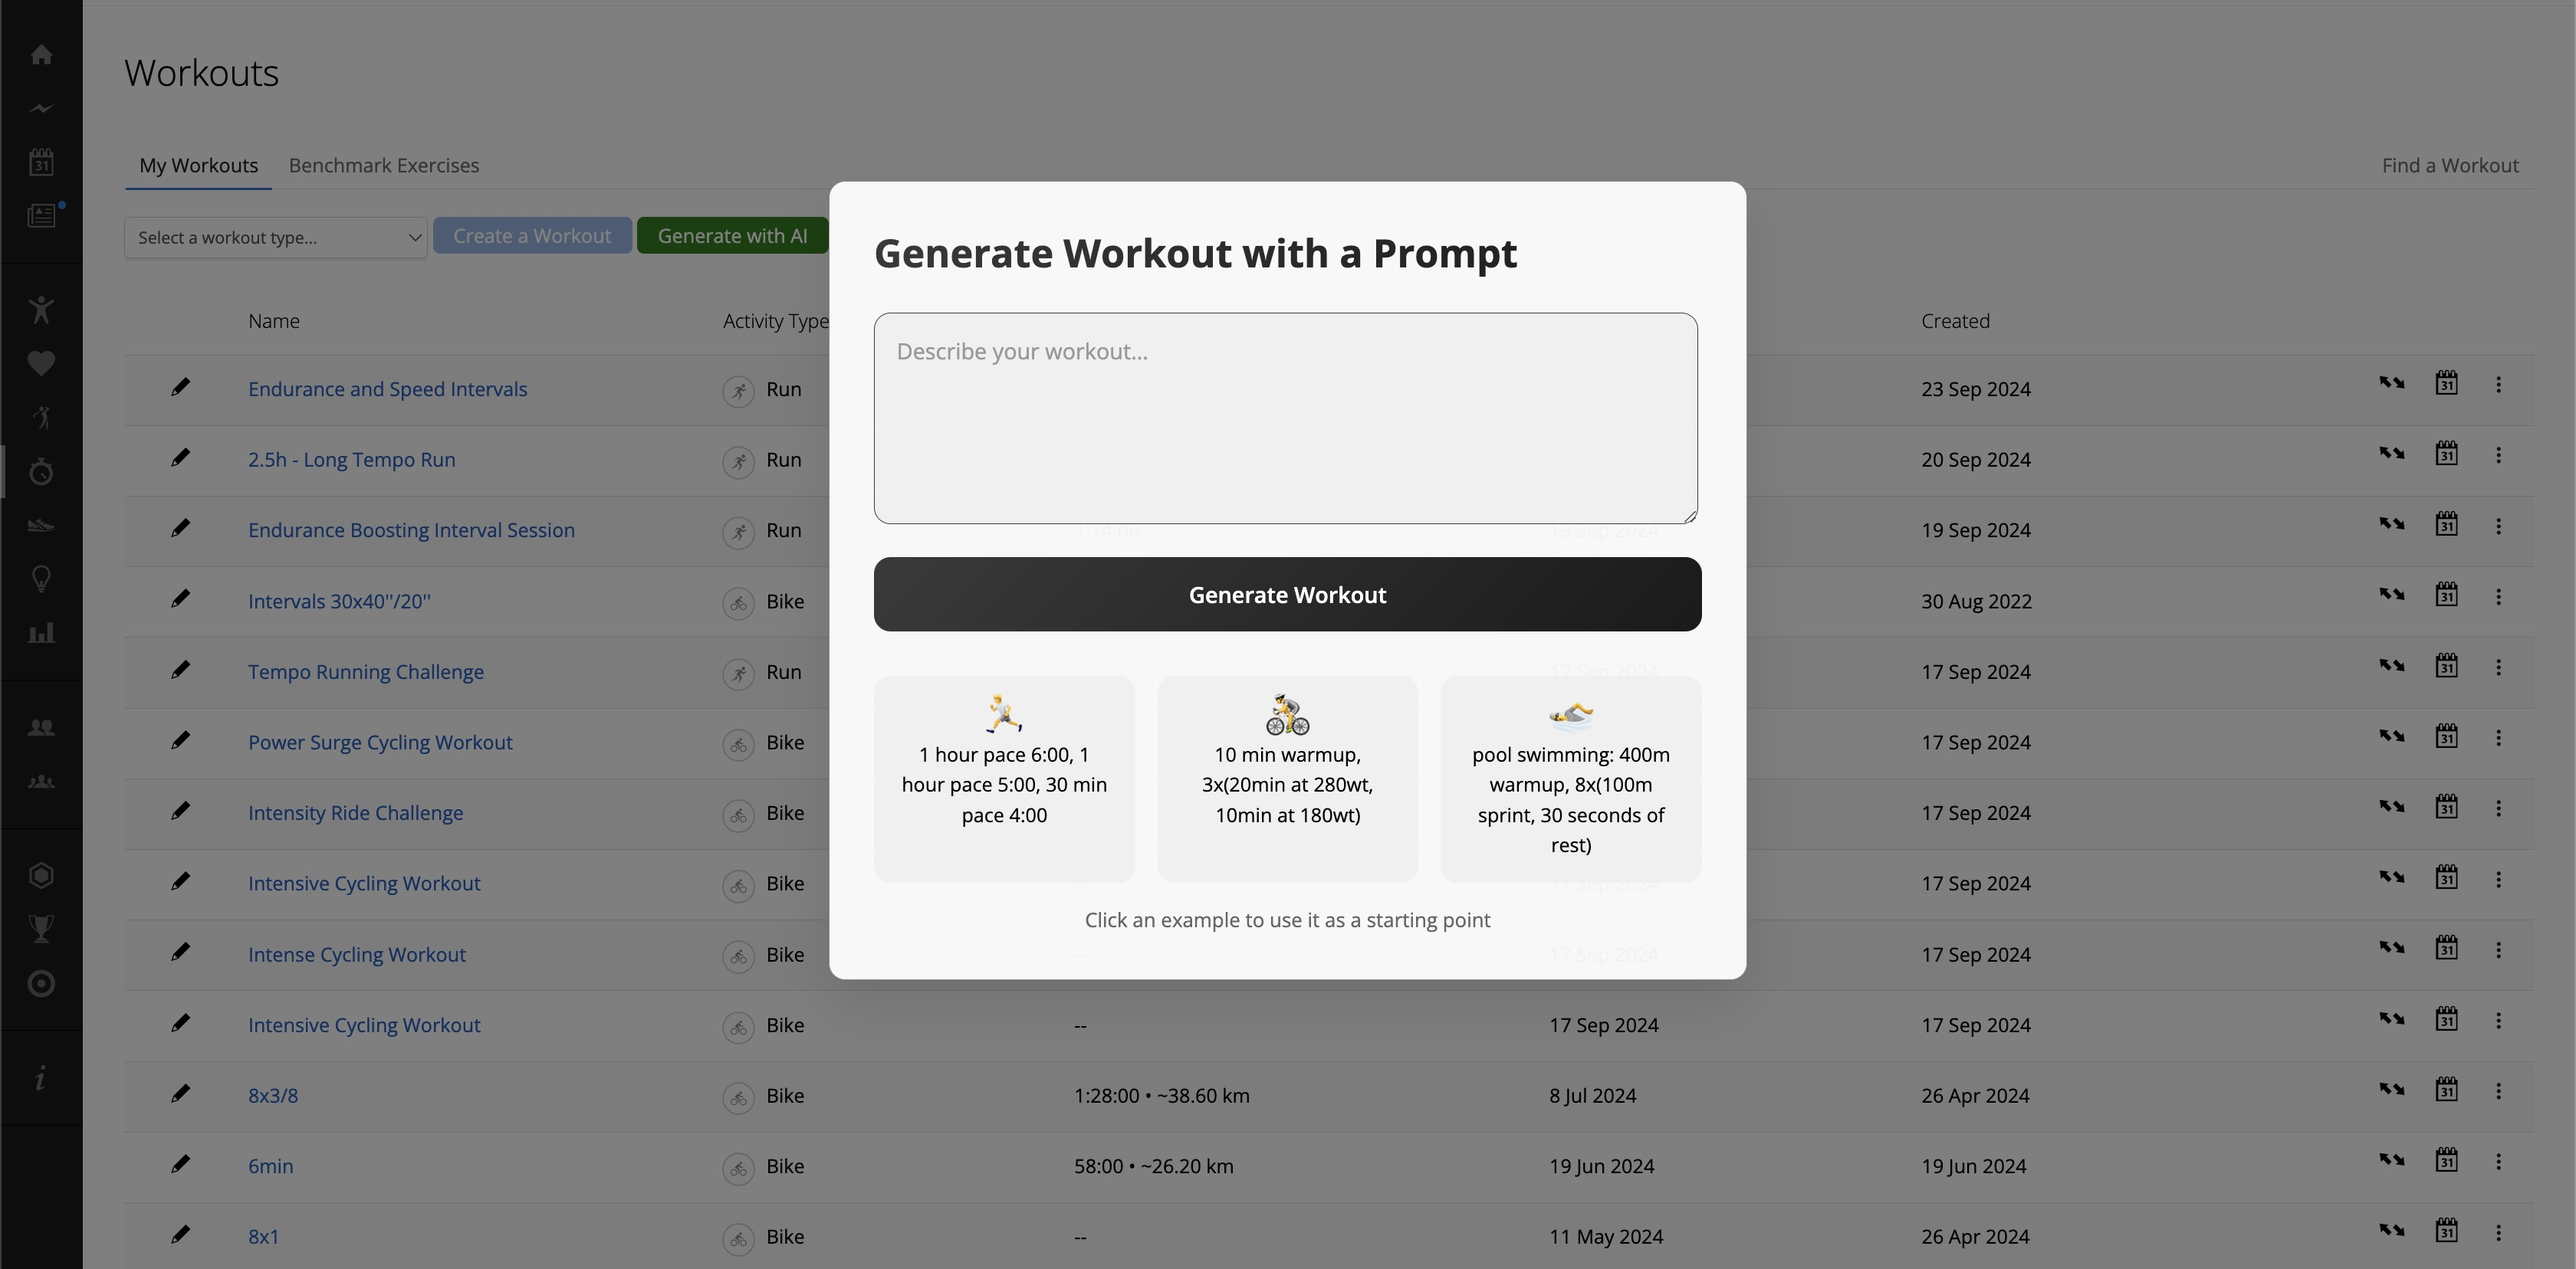
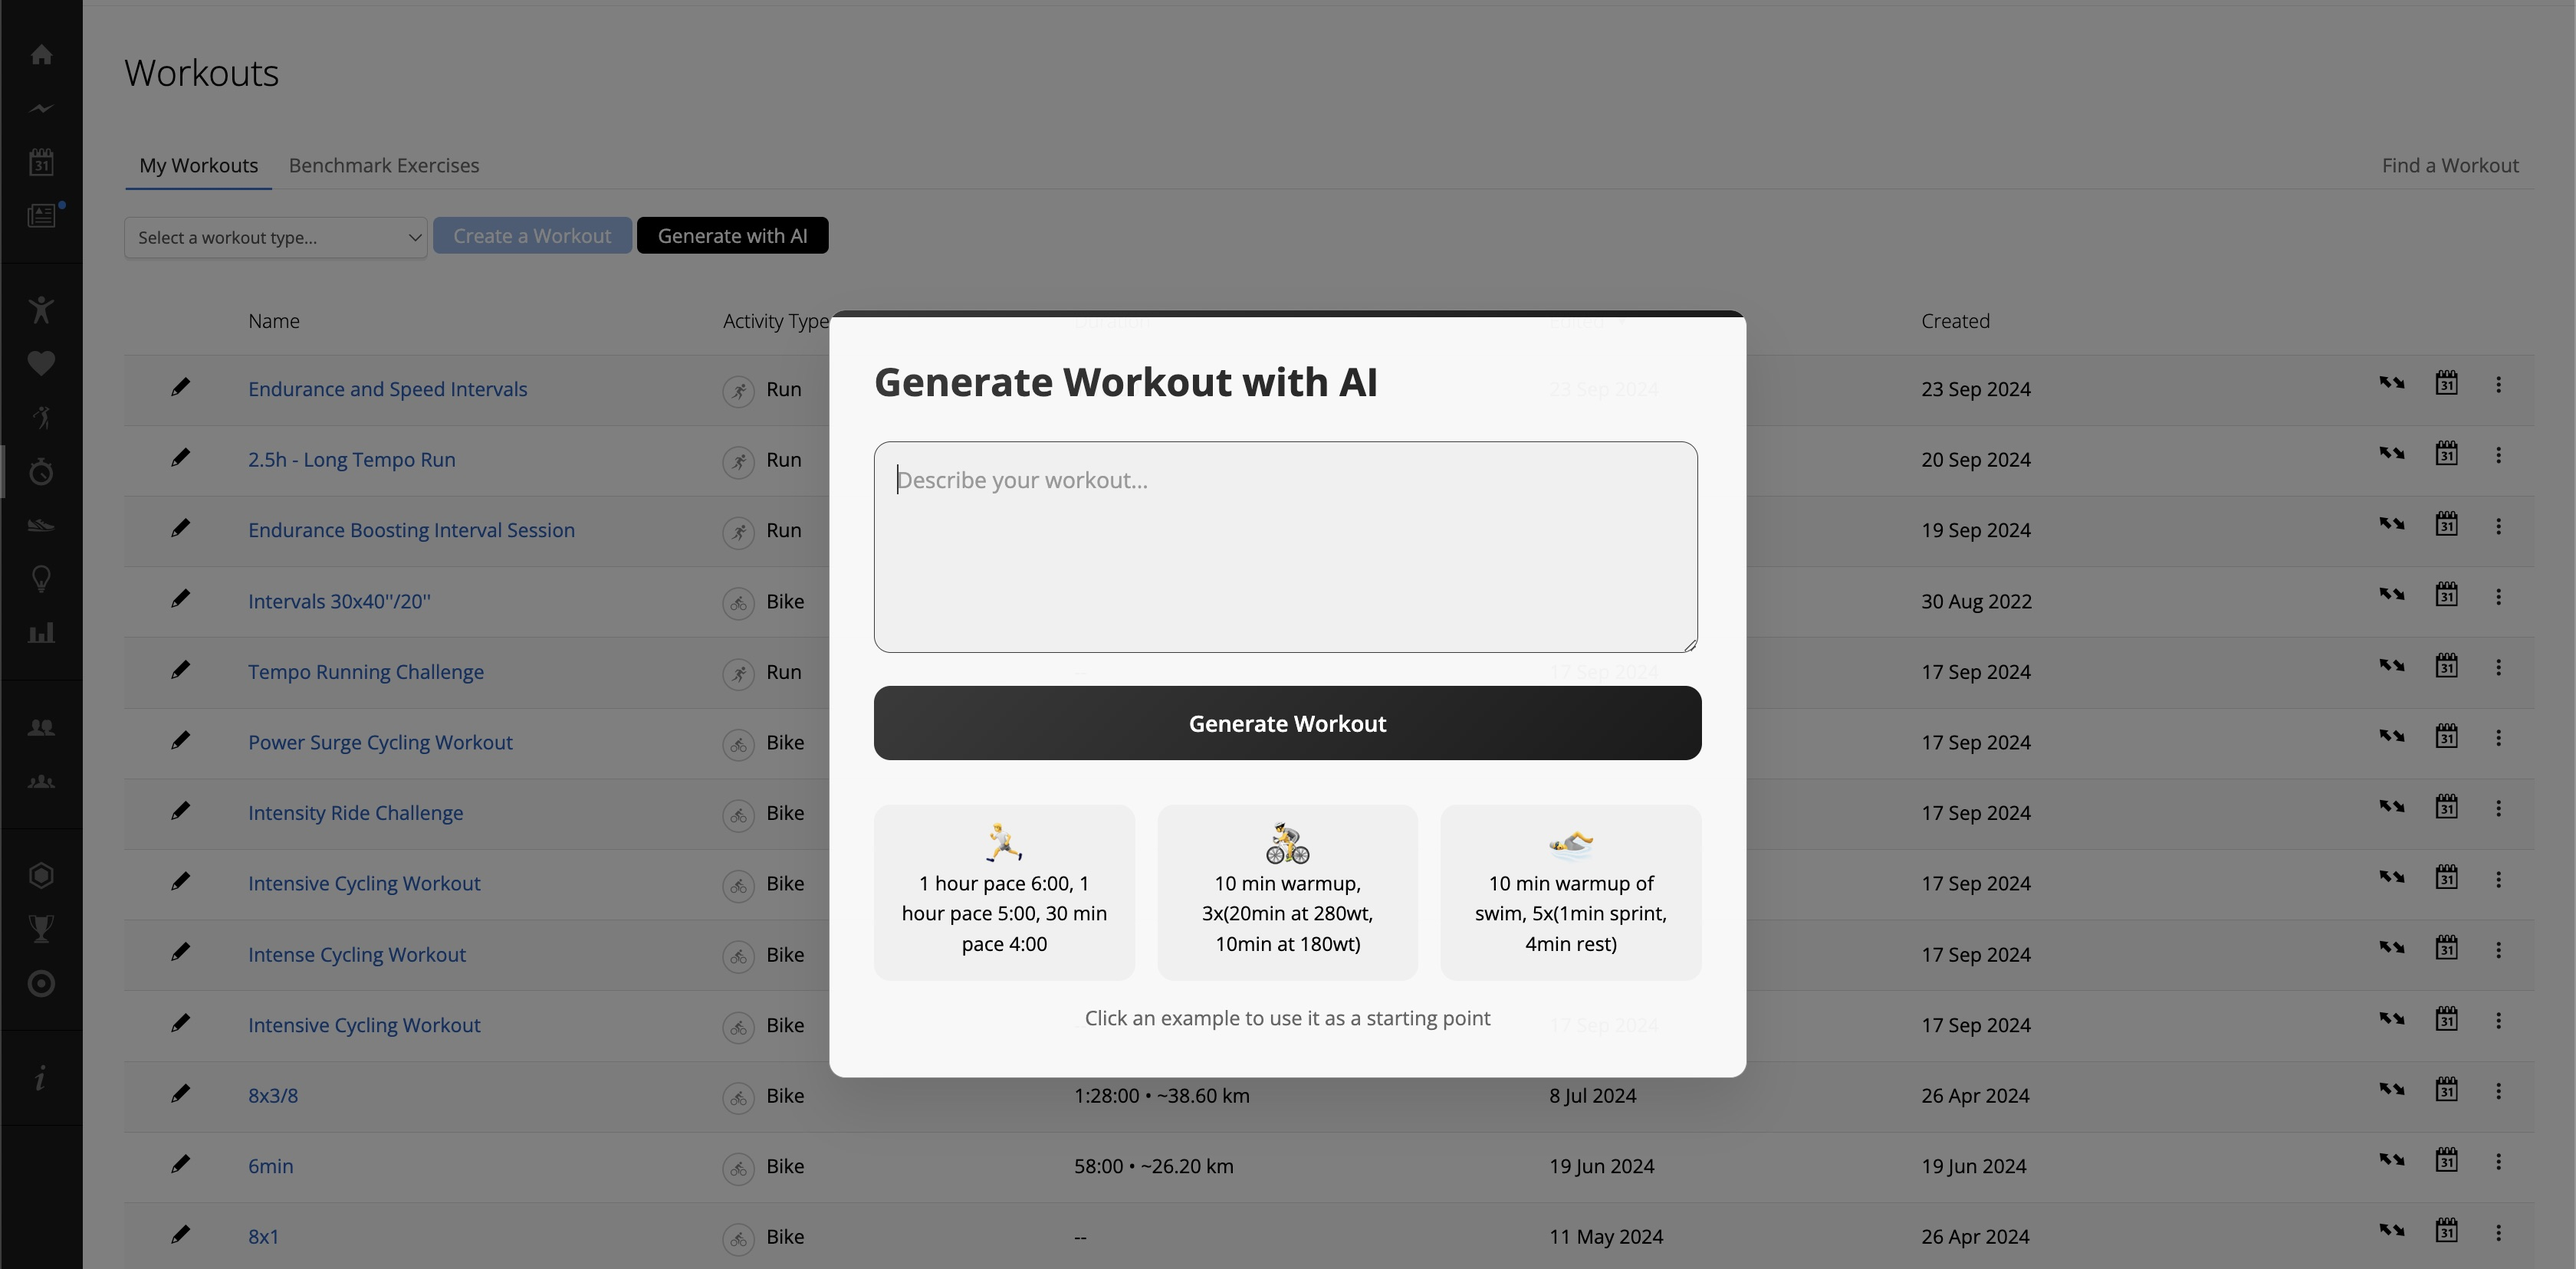
Add cleanup steps

Changed region(s): [[0.3125, 0.4312, 0.6875, 0.8623], [0.25, 0.1232, 0.6875, 0.308], [0.3438, 0.3696, 0.4375, 0.4004]]

diff --git a/src/lib/elements.js b/src/lib/elements.js
@@ -11,7 +11,9 @@ export function initGenerateWithAIButton(text = 'Generate with AI') {
 
   createModal()
   const newButton = createButton(createWorkoutButton, text)
-  setupEventListeners(newButton)
+  const cleanup = setupEventListeners(newButton)
+
+  return cleanup
 }
 
 /**
@@ -22,7 +24,7 @@ function createModal() {
   const modalHTML = `
     <div id="${plugin.modal.slice(1)}" class="ogw-modal">
       <div class="ogw-modal-content">
-        <h2 class="ogw-modal-title">Generate Workout with a Prompt</h2>
+        <h2 class="ogw-modal-title">Generate Workout with AI</h2>
         <textarea id="${plugin.workoutPromptInput.slice(1)}" placeholder="Describe your workout..."></textarea>
         <button id="${plugin.submitPromptBtn.slice(1)}" class="ogw-modal-submit-button">Generate Workout</button>
 
@@ -61,7 +63,7 @@ function createButton(createWorkoutButton, text) {
   newButton.setAttribute('aria-label', text)
   newButton.removeAttribute('disabled')
   newButton.textContent = text
-  newButton.style.backgroundColor = 'green'
+  newButton.style.backgroundColor = 'black'
   createWorkoutButton.parentElement.appendChild(newButton)
   return newButton
 }
@@ -77,24 +79,47 @@ function setupEventListeners(newButton) {
   const textArea = document.getElementById(plugin.workoutPromptInput.slice(1))
   const examplePrompts = document.querySelectorAll(plugin.examplePrompt)
 
-  newButton.addEventListener('click', (event) => {
+  const handleNewButtonClick = (event) => {
     event.preventDefault()
     modal.style.display = 'block'
-  })
+  }
 
-  submitButton.addEventListener('click', () => handleSubmit(modal, textArea))
+  const handleSubmitButtonClick = () => handleSubmit(modal, textArea)
 
-  examplePrompts.forEach((prompt) => {
-    prompt.addEventListener('click', () => {
-      textArea.value = prompt.textContent
-    })
-  })
+  const handleExamplePromptClick = (prompt) => () => {
+    textArea.value = prompt.textContent
+  }
 
-  window.addEventListener('click', (event) => {
+  const handleWindowClick = (event) => {
     if (event.target === modal) {
       modal.style.display = 'none'
     }
+  }
+
+  const handleKeyDown = (event) => {
+    if (event.key === 'Escape' && modal.style.display === 'block') {
+      modal.style.display = 'none'
+    }
+  }
+
+  newButton.addEventListener('click', handleNewButtonClick)
+  submitButton.addEventListener('click', handleSubmitButtonClick)
+  examplePrompts.forEach((prompt) => {
+    prompt.addEventListener('click', handleExamplePromptClick(prompt))
   })
+  window.addEventListener('click', handleWindowClick)
+  document.addEventListener('keydown', handleKeyDown)
+
+  // Return a cleanup function
+  return function cleanup() {
+    newButton.removeEventListener('click', handleNewButtonClick)
+    submitButton.removeEventListener('click', handleSubmitButtonClick)
+    examplePrompts.forEach((prompt) => {
+      prompt.removeEventListener('click', handleExamplePromptClick(prompt))
+    })
+    window.removeEventListener('click', handleWindowClick)
+    document.removeEventListener('keydown', handleKeyDown)
+  }
 }
 
 /**

diff --git a/src/contentScript/index.js b/src/contentScript/index.js
@@ -3,10 +3,33 @@ import { EVENTS } from '../lib/constants'
 import { initGenerateWithAIButton } from '../lib/elements'
 import './elements.css'
 
+let cleanupFunction = null
+let observer = null
+
+function setupListeners() {
+  document.addEventListener(EVENTS.indexPageReady, handleIndexPageReady)
+  document.addEventListener(EVENTS.newPromptFired, handleNewPromptFired)
+}
+
+function removeListeners() {
+  document.removeEventListener(EVENTS.indexPageReady, handleIndexPageReady)
+  document.removeEventListener(EVENTS.newPromptFired, handleNewPromptFired)
+}
+
+function handleIndexPageReady() {
+  if (cleanupFunction) {
+    cleanupFunction()
+  }
+  cleanupFunction = initGenerateWithAIButton()
+}
+
+function handleNewPromptFired(event) {
+  requestWorkout(event.detail)
+}
+
 export function waitPageLoaded() {
   let MutationObserver = window.MutationObserver || window.WebKitMutationObserver
-
-  let observer = new MutationObserver(function (mutations) {
+  observer = new MutationObserver(function (mutations) {
     var evtName = null
     var evt = null
     let mutation = mutations.pop()
@@ -34,7 +57,17 @@ export function waitPageLoaded() {
   })
 }
 
-document.addEventListener(EVENTS.indexPageReady, () => initGenerateWithAIButton())
-document.addEventListener(EVENTS.newPromptFired, (event) => requestWorkout(event.detail))
+function cleanup() {
+  if (cleanupFunction) {
+    cleanupFunction()
+  }
+  if (observer) {
+    observer.disconnect()
+  }
+  removeListeners()
+}
 
+window.addEventListener('unload', cleanup)
+
+setupListeners()
 waitPageLoaded()

diff --git a/src/contentScript/elements.css b/src/contentScript/elements.css
@@ -27,13 +27,25 @@
 
 .ogw-modal-content {
   background-color: var(--modal-background);
-  margin: 10% auto;
+  margin: 15% auto;
   padding: 2.0rem;
   border: 1px solid #888;
   width: 90%;
   max-width: 600px;
   border-radius: var(--border-radius);
   box-shadow: 0 20px 40px rgba(0, 0, 0, 0.1);
+  position: relative;
+  overflow: hidden;
+}
+
+.ogw-modal-content::before {
+  content: '';
+  position: absolute;
+  top: 0;
+  left: 0;
+  right: 0;
+  height: 5px;
+  background: var(--primary-gradient);
 }
 
 .ogw-modal-title {
